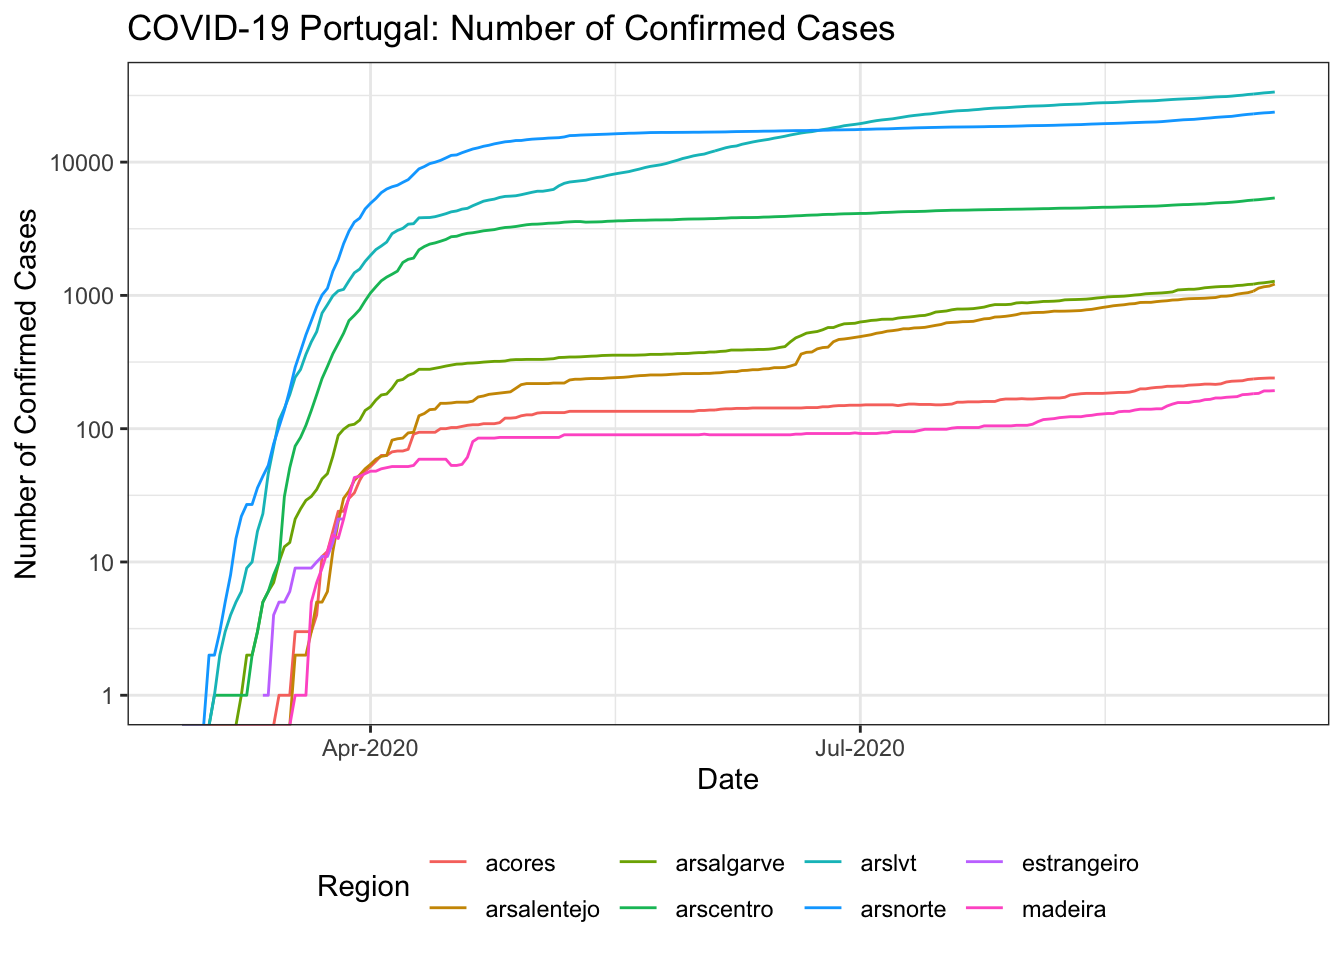
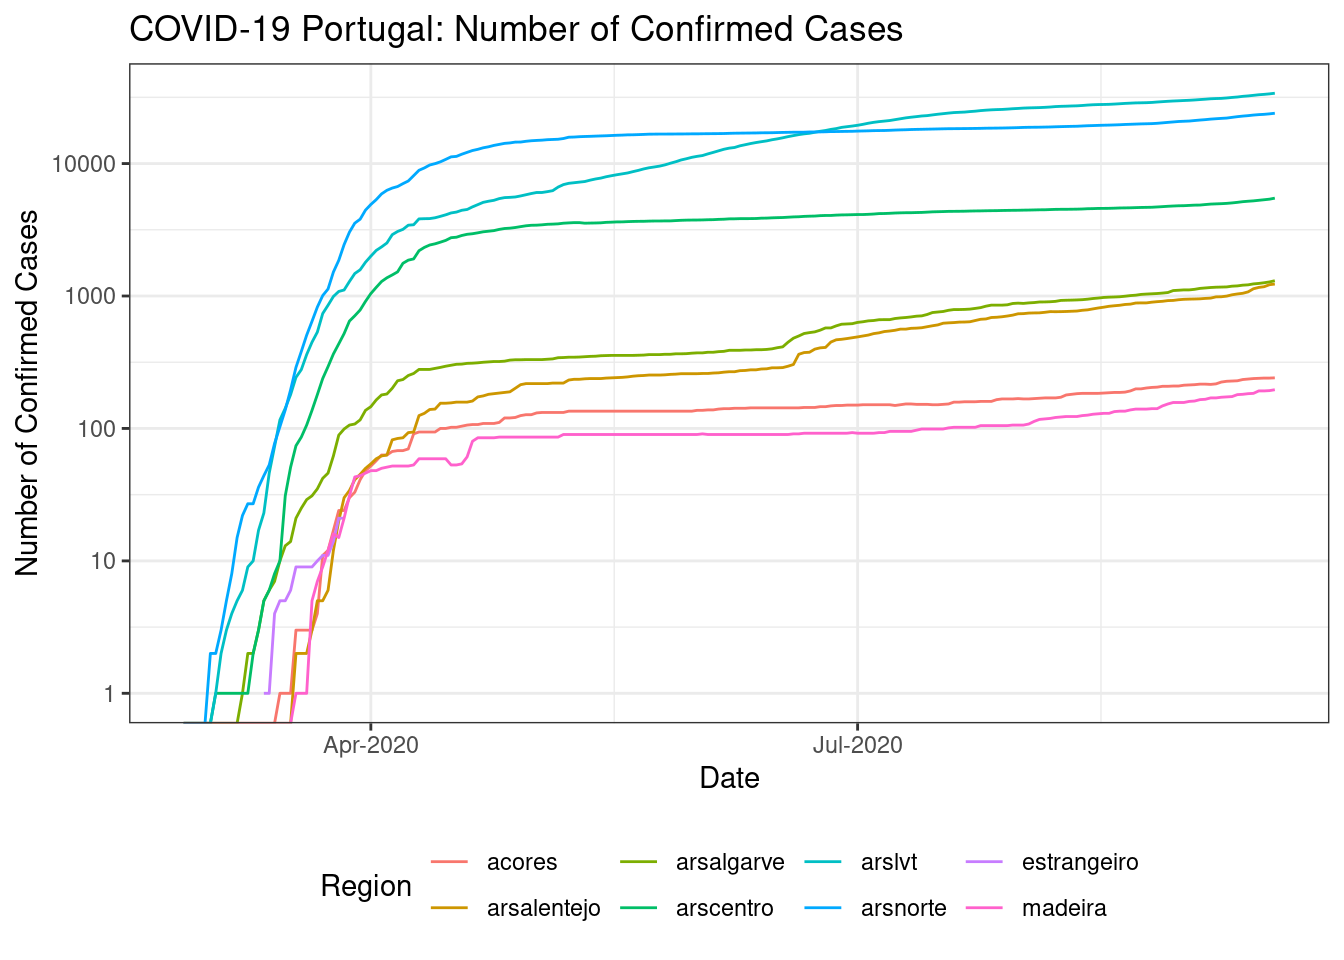
Manual update due to data release delay

diff --git a/README.md b/README.md
@@ -4,9 +4,9 @@ README](https://github.com/CEAUL/Dados_COVID-19_PT/workflows/Render%20README/bad
 
 ## Daily Portuguese COVID-19 Data
 
-**Last updated: Thu 17 Sep 2020 (15:26:17 UTC \[+0000\])**
+**Last updated: Thu 17 Sep 2020 (17:34:54 WEST \[+0100\])**
 
-  - Data available from **26 Feb 2020** until **16 Sep 2020** (204
+  - Data available from **26 Feb 2020** until **17 Sep 2020** (205
     days).
 
 ### Download User Friendly Version
@@ -45,18 +45,18 @@ The original data were downloaded from an API provide by VOST
 
 ### Summary: Last 10 (available) Days
 
-|            Date | Cases\_7\_Day\_Mean |        Cases |       Active |    Recovered |    Deaths |
-| --------------: | ------------------: | -----------: | -----------: | -----------: | --------: |
-| Mon 07 Sep 2020 |               356.4 | 60507 (+249) | 15648 (+183) |  43016 (+63) | 1843 (+3) |
-| Tue 08 Sep 2020 |               378.9 | 60895 (+388) | 15903 (+255) | 43146 (+130) | 1846 (+3) |
-| Wed 09 Sep 2020 |               415.4 | 61541 (+646) | 16408 (+505) | 43284 (+138) | 1849 (+3) |
-| Thu 10 Sep 2020 |               439.3 | 62126 (+585) | 16833 (+425) | 43441 (+157) | 1852 (+3) |
-| Fri 11 Sep 2020 |               479.4 | 62813 (+687) | 17314 (+481) | 43644 (+203) | 1855 (+3) |
-| Sat 12 Sep 2020 |               481.0 | 63310 (+497) | 17556 (+242) | 43894 (+250) | 1860 (+5) |
-| Sun 13 Sep 2020 |               532.1 | 63983 (+673) | 18047 (+491) | 44069 (+175) | 1867 (+7) |
-| Mon 14 Sep 2020 |               584.1 | 64596 (+613) | 18540 (+493) | 44185 (+116) | 1871 (+4) |
-| Tue 15 Sep 2020 |               589.4 | 65021 (+425) | 18784 (+244) | 44362 (+177) | 1875 (+4) |
-| Wed 16 Sep 2020 |               583.6 | 65626 (+605) | 19220 (+436) | 44528 (+166) | 1878 (+3) |
+|            Date | Cases\_7\_Day\_Mean |        Cases |       Active |    Recovered |     Deaths |
+| --------------: | ------------------: | -----------: | -----------: | -----------: | ---------: |
+| Tue 08 Sep 2020 |               378.9 | 60895 (+388) | 15903 (+255) | 43146 (+130) |  1846 (+3) |
+| Wed 09 Sep 2020 |               415.4 | 61541 (+646) | 16408 (+505) | 43284 (+138) |  1849 (+3) |
+| Thu 10 Sep 2020 |               439.3 | 62126 (+585) | 16833 (+425) | 43441 (+157) |  1852 (+3) |
+| Fri 11 Sep 2020 |               479.4 | 62813 (+687) | 17314 (+481) | 43644 (+203) |  1855 (+3) |
+| Sat 12 Sep 2020 |               481.0 | 63310 (+497) | 17556 (+242) | 43894 (+250) |  1860 (+5) |
+| Sun 13 Sep 2020 |               532.1 | 63983 (+673) | 18047 (+491) | 44069 (+175) |  1867 (+7) |
+| Mon 14 Sep 2020 |               584.1 | 64596 (+613) | 18540 (+493) | 44185 (+116) |  1871 (+4) |
+| Tue 15 Sep 2020 |               589.4 | 65021 (+425) | 18784 (+244) | 44362 (+177) |  1875 (+4) |
+| Wed 16 Sep 2020 |               583.6 | 65626 (+605) | 19220 (+436) | 44528 (+166) |  1878 (+3) |
+| Thu 17 Sep 2020 |               610.0 | 66396 (+770) | 19714 (+494) | 44794 (+266) | 1888 (+10) |
 
 Change from previous day in brackets.
 
@@ -79,19 +79,19 @@ CV <- fread(here("data", "covid19pt_DSSG_Long.csv"))
 # Looking at the data:
 tail(CV)
 ##          data   origVars   origType other symptoms sex ageGrpLower ageGrpUpper
-## 1: 2020-09-11 vigilancia vigilancia                All                        
-## 2: 2020-09-12 vigilancia vigilancia                All                        
-## 3: 2020-09-13 vigilancia vigilancia                All                        
-## 4: 2020-09-14 vigilancia vigilancia                All                        
-## 5: 2020-09-15 vigilancia vigilancia                All                        
-## 6: 2020-09-16 vigilancia vigilancia                All                        
+## 1: 2020-09-12 vigilancia vigilancia                All                        
+## 2: 2020-09-13 vigilancia vigilancia                All                        
+## 3: 2020-09-14 vigilancia vigilancia                All                        
+## 4: 2020-09-15 vigilancia vigilancia                All                        
+## 5: 2020-09-16 vigilancia vigilancia                All                        
+## 6: 2020-09-17 vigilancia vigilancia                All                        
 ##    ageGrp   region value valueUnits
-## 1:        Portugal 35712      Count
-## 2:        Portugal 36055      Count
-## 3:        Portugal 36398      Count
-## 4:        Portugal 36758      Count
-## 5:        Portugal 36955      Count
-## 6:        Portugal 37287      Count
+## 1:        Portugal 36055      Count
+## 2:        Portugal 36398      Count
+## 3:        Portugal 36758      Count
+## 4:        Portugal 36955      Count
+## 5:        Portugal 37287      Count
+## 6:        Portugal 37804      Count
 
 # Order data by original variable name and date.
 setkeyv(CV, c("origVars", "data"))
@@ -141,7 +141,7 @@ CV[origType=="confirmados" & ageGrp=="" & region!="Portugal"] %>%
     y = "Number of Confirmed Cases",
     colour = "Region")
 ## Warning: Transformation introduced infinite values in continuous y-axis
-## Warning: Removed 188 row(s) containing missing values (geom_path).
+## Warning: Removed 189 row(s) containing missing values (geom_path).
 ```
 
 <img src="README_figs/README-casesbyRegion-1.png" width="672" />
